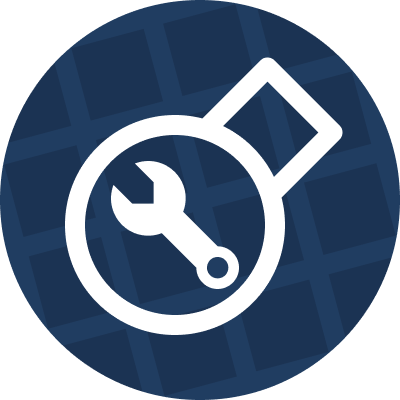
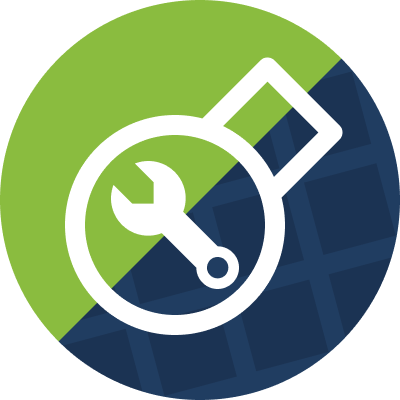
css

diff --git a/public/main.css b/public/main.css
@@ -143,7 +143,7 @@ h3 {
 }
 
 .horizontalSelector span.active {
-  background: #0074DA;
+  background: #8abc3f;
   color: #ffffff;
   border-radius: 5px;
   cursor: default;
@@ -183,7 +183,7 @@ body.mobile .serverSelector {
 }
 
 .serverSelector tr.selected {
-  color: #1B3353;
+  color: #8abc3f;
   cursor: default;
 }
 
@@ -725,11 +725,11 @@ body.mobile .startMenuSlidingContent {
   color: white;
   text-align: center;
   text-shadow: 0 0 3px rgba(0, 0, 0, 0.2), 0 1px 2px rgba(0, 0, 0, 0.2);
-  background: #336699;
+  background: #A9D86D;
   border: 0;
-  border-bottom: 2px solid #1B3353;
+  border-bottom: 2px solid #8abc3f;
   cursor: pointer;
-  box-shadow: inset 0 -2px #1B3353;
+  box-shadow: inset 0 -2px #8abc3f;
   border-radius: 5px;
   font: 16px Ubuntu;
 }
@@ -737,13 +737,13 @@ body.mobile .startMenuSlidingContent {
 #startButton:hover {
   margin-top: 2px;
   height: 38px;
-  border-bottom: 0px solid #1B3353;
+  border-bottom: 0px solid #8abc3f;
 }
 
 #startButton:active {
   margin-top: 2px;
   height: 38px;
-  background: #1B3353;
+  background: #8abc3f;
   border-bottom: 0px;
   outline: none;
   box-shadow: none;
@@ -981,20 +981,20 @@ body.mobile .startMenuSlidingContent {
 
 .container input:checked~.checkmark,
 .container input:checked~.radio {
-  background-color: #0074DA;
-  border: 1px solid #0074DA;
+  background-color: #8abc3f;
+  border: 1px solid #8abc3f;
 }
 
 .container:hover input:checked~.checkmark,
 .container:hover input:checked~.radio {
-  background-color: #004894;
-  border: 1px solid #004894;
+  background-color: #7FA843;
+  border: 1px solid #7FA843;
 }
 
 .container input:disabled:checked~.checkmark,
 .container input:disabled:checked~.radio {
-  background-color: #002C5B;
-  border: 1px solid #002C5B;
+  background-color: #7FA843;
+  border: 1px solid #7FA843;
 }
 
 .container .checkmark:after {
